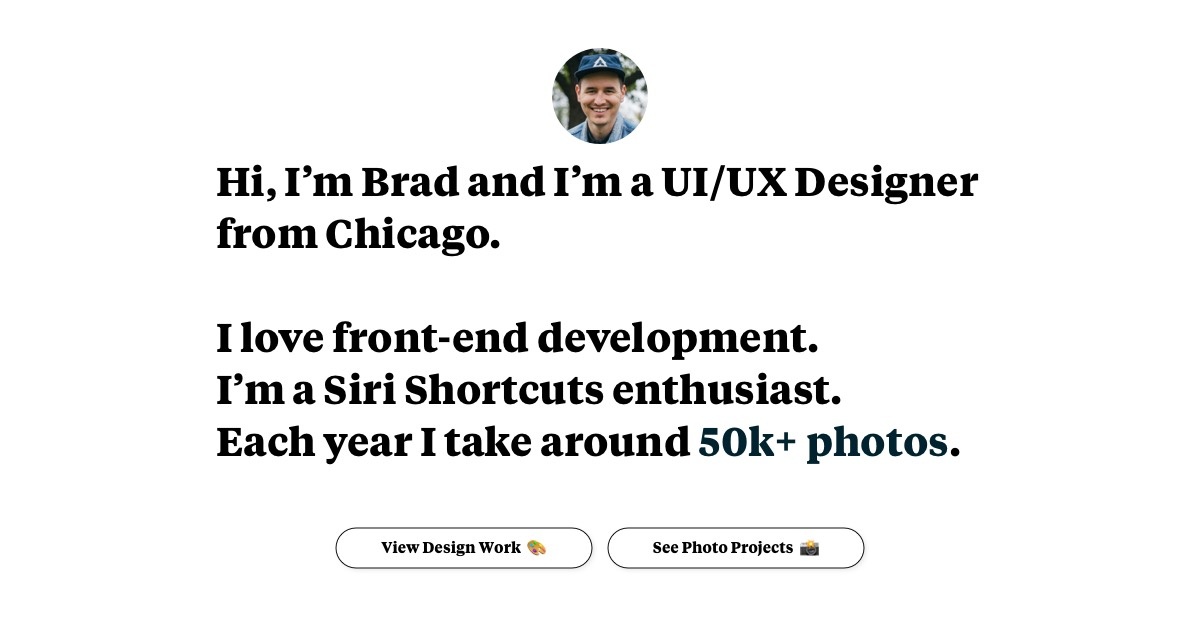
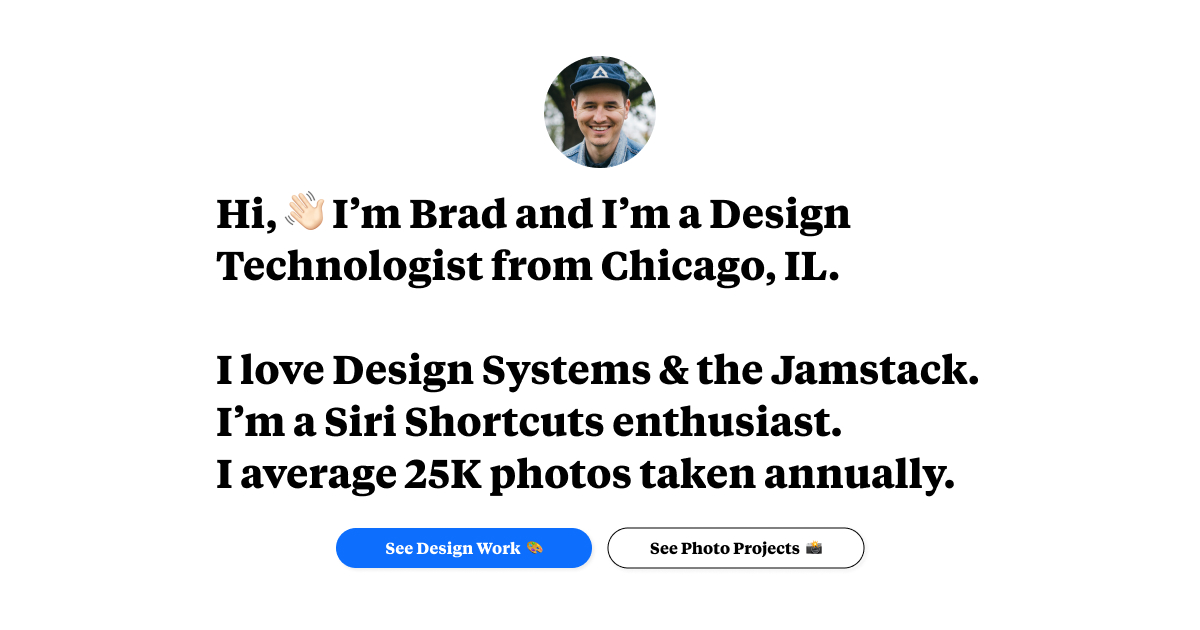
Update sharing and add link to index

diff --git a/pages/index.vue b/pages/index.vue
@@ -11,7 +11,7 @@
         </div>
 
         <h1 class="display-1 mb-6">
-          Hi, 👋🏻 &nbsp;I’m Brad and I’m a Design Technologist from Chicago, IL.
+          Hi, 👋🏻 &nbsp;I’m Brad and I’m a <a target="_new" rel="noopener" href="https://indeed.design/article/what-is-a-design-technologist">Design Technologist</a> from Chicago, IL.
         </h1>
 
         <div class="display-1">
